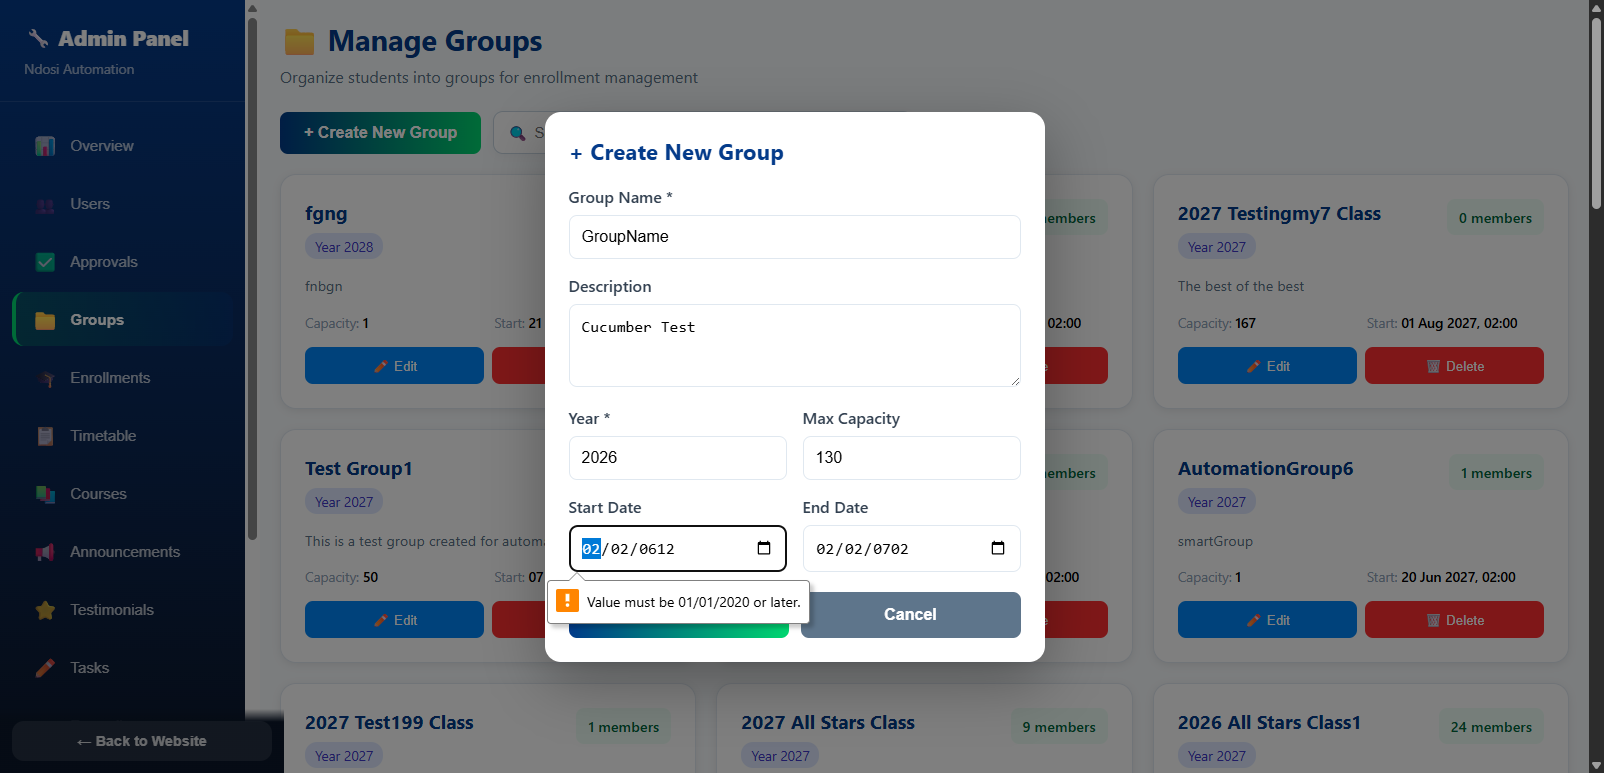
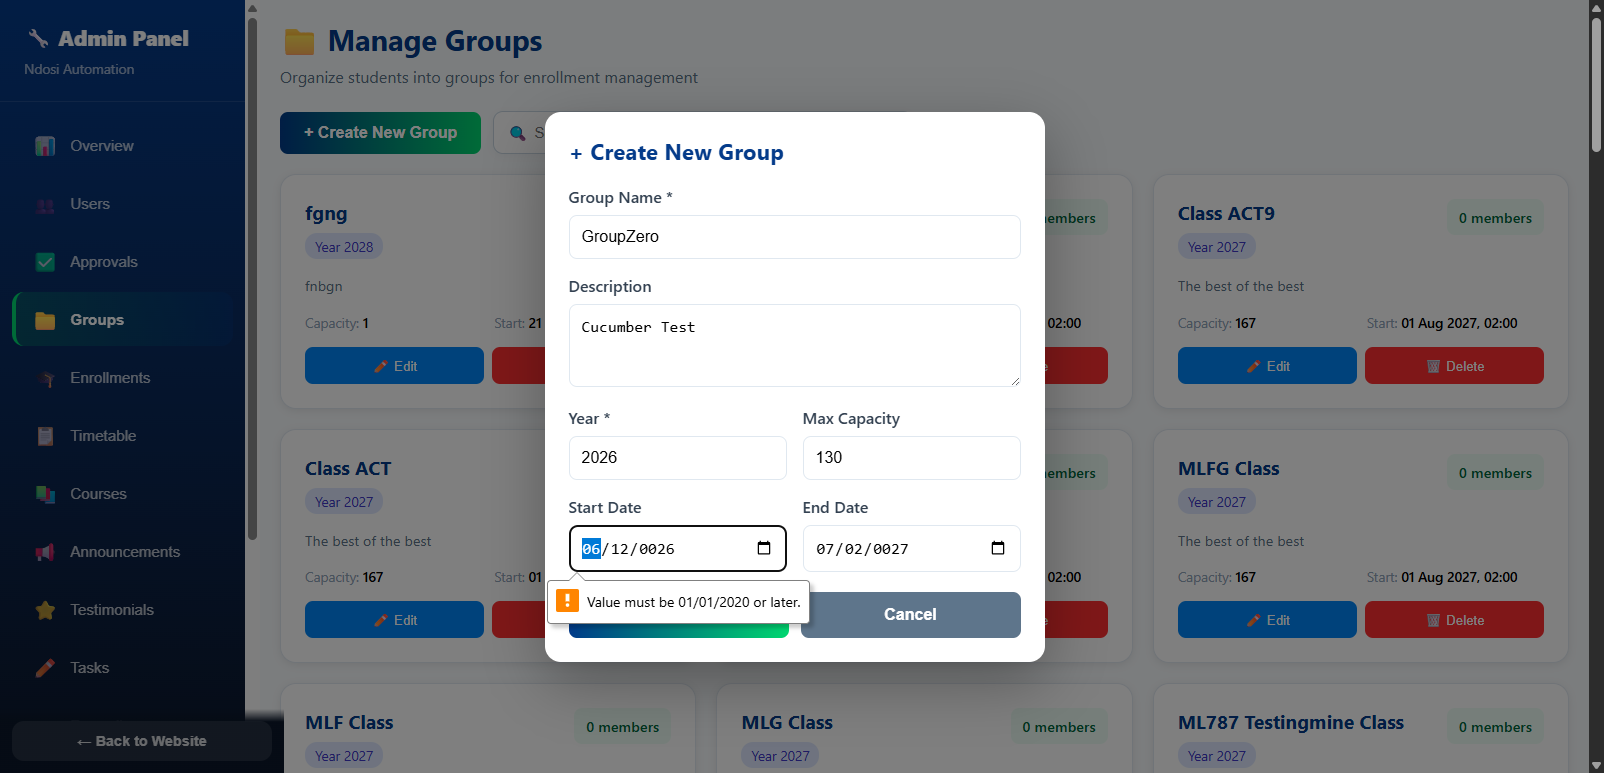
Removed Thread.sleep and improved wait handling in DashboardPage

diff --git a/src/test/java/Pages/DashboardPage.java b/src/test/java/Pages/DashboardPage.java
@@ -15,7 +15,6 @@ import static org.openqa.selenium.support.ui.ExpectedConditions.visibilityOf;
 
 public class DashboardPage {
 
-    private static final String groupName = ("GroupName") ;
     static WebDriver driver;
 
     @FindBy(xpath = "//*[@id=\"app-main-content\"]/section/div[1]/h2")
@@ -56,7 +55,7 @@ public class DashboardPage {
 
 
     public DashboardPage(WebDriver driver) {
-        this.driver = driver;
+        DashboardPage.driver = driver;
     }
 
     public static void verifyDashboardPageIsDisplayed() {
@@ -87,7 +86,7 @@ public class DashboardPage {
         js.executeScript("arguments[0].click();", createNewGroup_xpath);
     }
 
-    public static void groupNameInput(String groupName) throws InterruptedException {
+    public static void groupNameInput(String groupName) {
         groupNameInput.sendKeys(groupName);
     }
 
@@ -101,19 +100,19 @@ public class DashboardPage {
         groupYear.sendKeys(year);
     }
 
-     public static void enterStartDate(String startDate) {
-         startDate_xpath.click();
-         startDate_xpath.clear();
-         String formattedDate = formatDate(startDate);
-         startDate_xpath.sendKeys(formattedDate);
-     }
+    public static void enterStartDate(String startDate) {
+        startDate_xpath.click();
+        startDate_xpath.clear();
+        String formattedDate = formatDate(startDate);
+        startDate_xpath.sendKeys(formattedDate);
+    }
 
-     public static void enterEndDate(String date) {
-         endDate_xpath.click();
-         endDate_xpath.clear();
-         String formattedDate = formatDate(date);
-         endDate_xpath.sendKeys(formattedDate);
-     }
+    public static void enterEndDate(String date) {
+        endDate_xpath.click();
+        endDate_xpath.clear();
+        String formattedDate = formatDate(date);
+        endDate_xpath.sendKeys(formattedDate);
+    }
 
     private static String formatDate(String dateStr) {
         String[] p = dateStr.split("-");
@@ -129,36 +128,25 @@ public class DashboardPage {
 
     public static void clickCreateGroup() {
         WebDriverWait wait = new WebDriverWait(driver, Duration.ofSeconds(15));
-        wait.until(ExpectedConditions.elementToBeClickable(
-                By.xpath("//button[contains(., 'Create Group')]")
-        )).click();
+        wait.until(ExpectedConditions.elementToBeClickable(createGroup_xpath));
+        createGroup_xpath.click();
     }
 
-     public static void verifyGroupCreatedSuccessfully(String groupName) {
-         // Wait for the page to settle after group creation
-         try {
-             Thread.sleep(3000);
-         } catch (InterruptedException e) {
-             Thread.currentThread().interrupt();
-         }
-         
-         // Wait for the modal/dialog to close and page to reload
-         WebDriverWait wait = new WebDriverWait(driver, Duration.ofSeconds(20));
-         
-         // Try to find the group name in the table or list
-         try {
-             // First, try to find it in a table cell
-             WebElement group = wait.until(ExpectedConditions.visibilityOfElementLocated(
-                     By.xpath("//td[contains(text(), '" + groupName + "')] | //div[contains(@class, 'group') and contains(text(), '" + groupName + "')] | //*[contains(text(), '" + groupName + "')]")
-             ));
-             Assert.assertTrue(group.isDisplayed(), "Group '" + groupName + "' was not created successfully");
-         } catch (org.openqa.selenium.TimeoutException e) {
-             // If not found, take a screenshot and fail with helpful message
-             throw new AssertionError("Group '" + groupName + "' was not found on the page after creation. The group may not have been created successfully.", e);
-         }
-     }
-    
-    public static void verifyGroupCreatedSuccessfully() {
-        verifyGroupCreatedSuccessfully(groupName);
+    public static void verifyGroupCreatedSuccessfully(String groupName) {
+        // Wait for the group to appear in the UI (no Thread.sleep; use explicit wait)
+        WebDriverWait wait = new WebDriverWait(driver, Duration.ofSeconds(20));
+
+        By groupLocator = By.xpath(
+                "//td[contains(text(), '" + groupName + "')] | //div[contains(@class, 'group') and contains(text(), '" + groupName + "')] | //*[contains(text(), '" + groupName + "')]"
+        );
+
+        try {
+            WebElement group = wait.until(ExpectedConditions.visibilityOfElementLocated(groupLocator));
+            Assert.assertTrue(group.isDisplayed(), "Group '" + groupName + "' was not created successfully");
+        } catch (org.openqa.selenium.TimeoutException e) {
+            throw new AssertionError("Group '" + groupName + "' was not found on the page after creation. The group may not have been created successfully.", e);
+        }
     }
+
+    // removed unused no-arg verifier
 }

diff --git a/src/test/java/Steps/stepsDef.java b/src/test/java/Steps/stepsDef.java
@@ -14,7 +14,7 @@ import org.openqa.selenium.TakesScreenshot;
 public class stepsDef extends Base {
 
     private String currentGroupName;
-    
+
     @Given("i am on the login page")
     public void i_am_on_the_login_page() {
         HomePage.clickLoginButton();